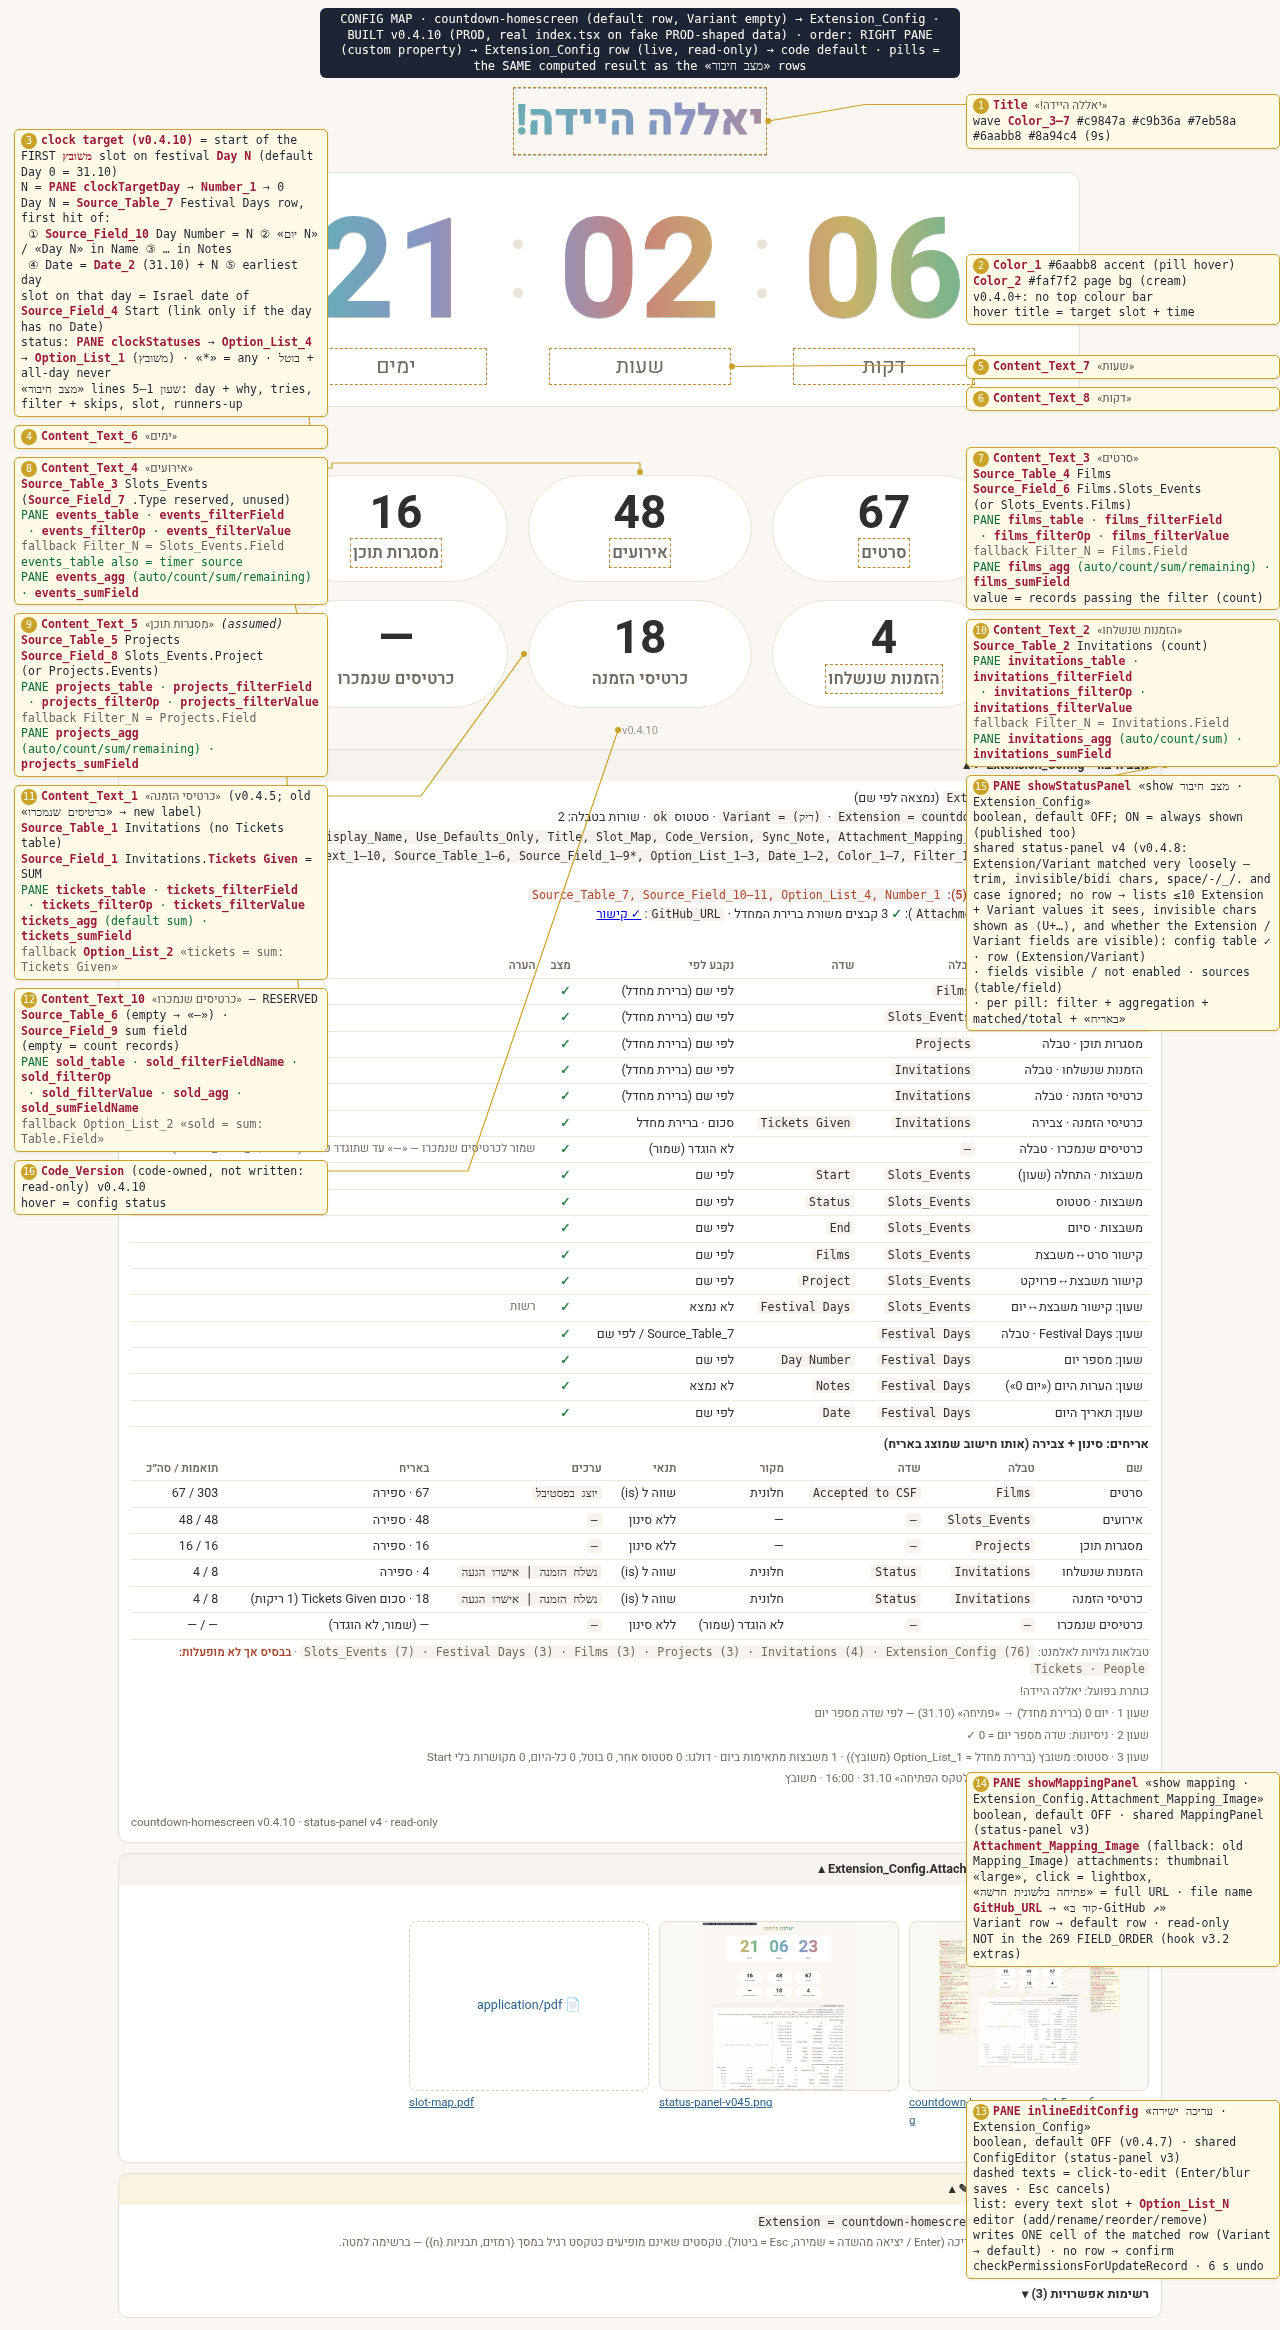
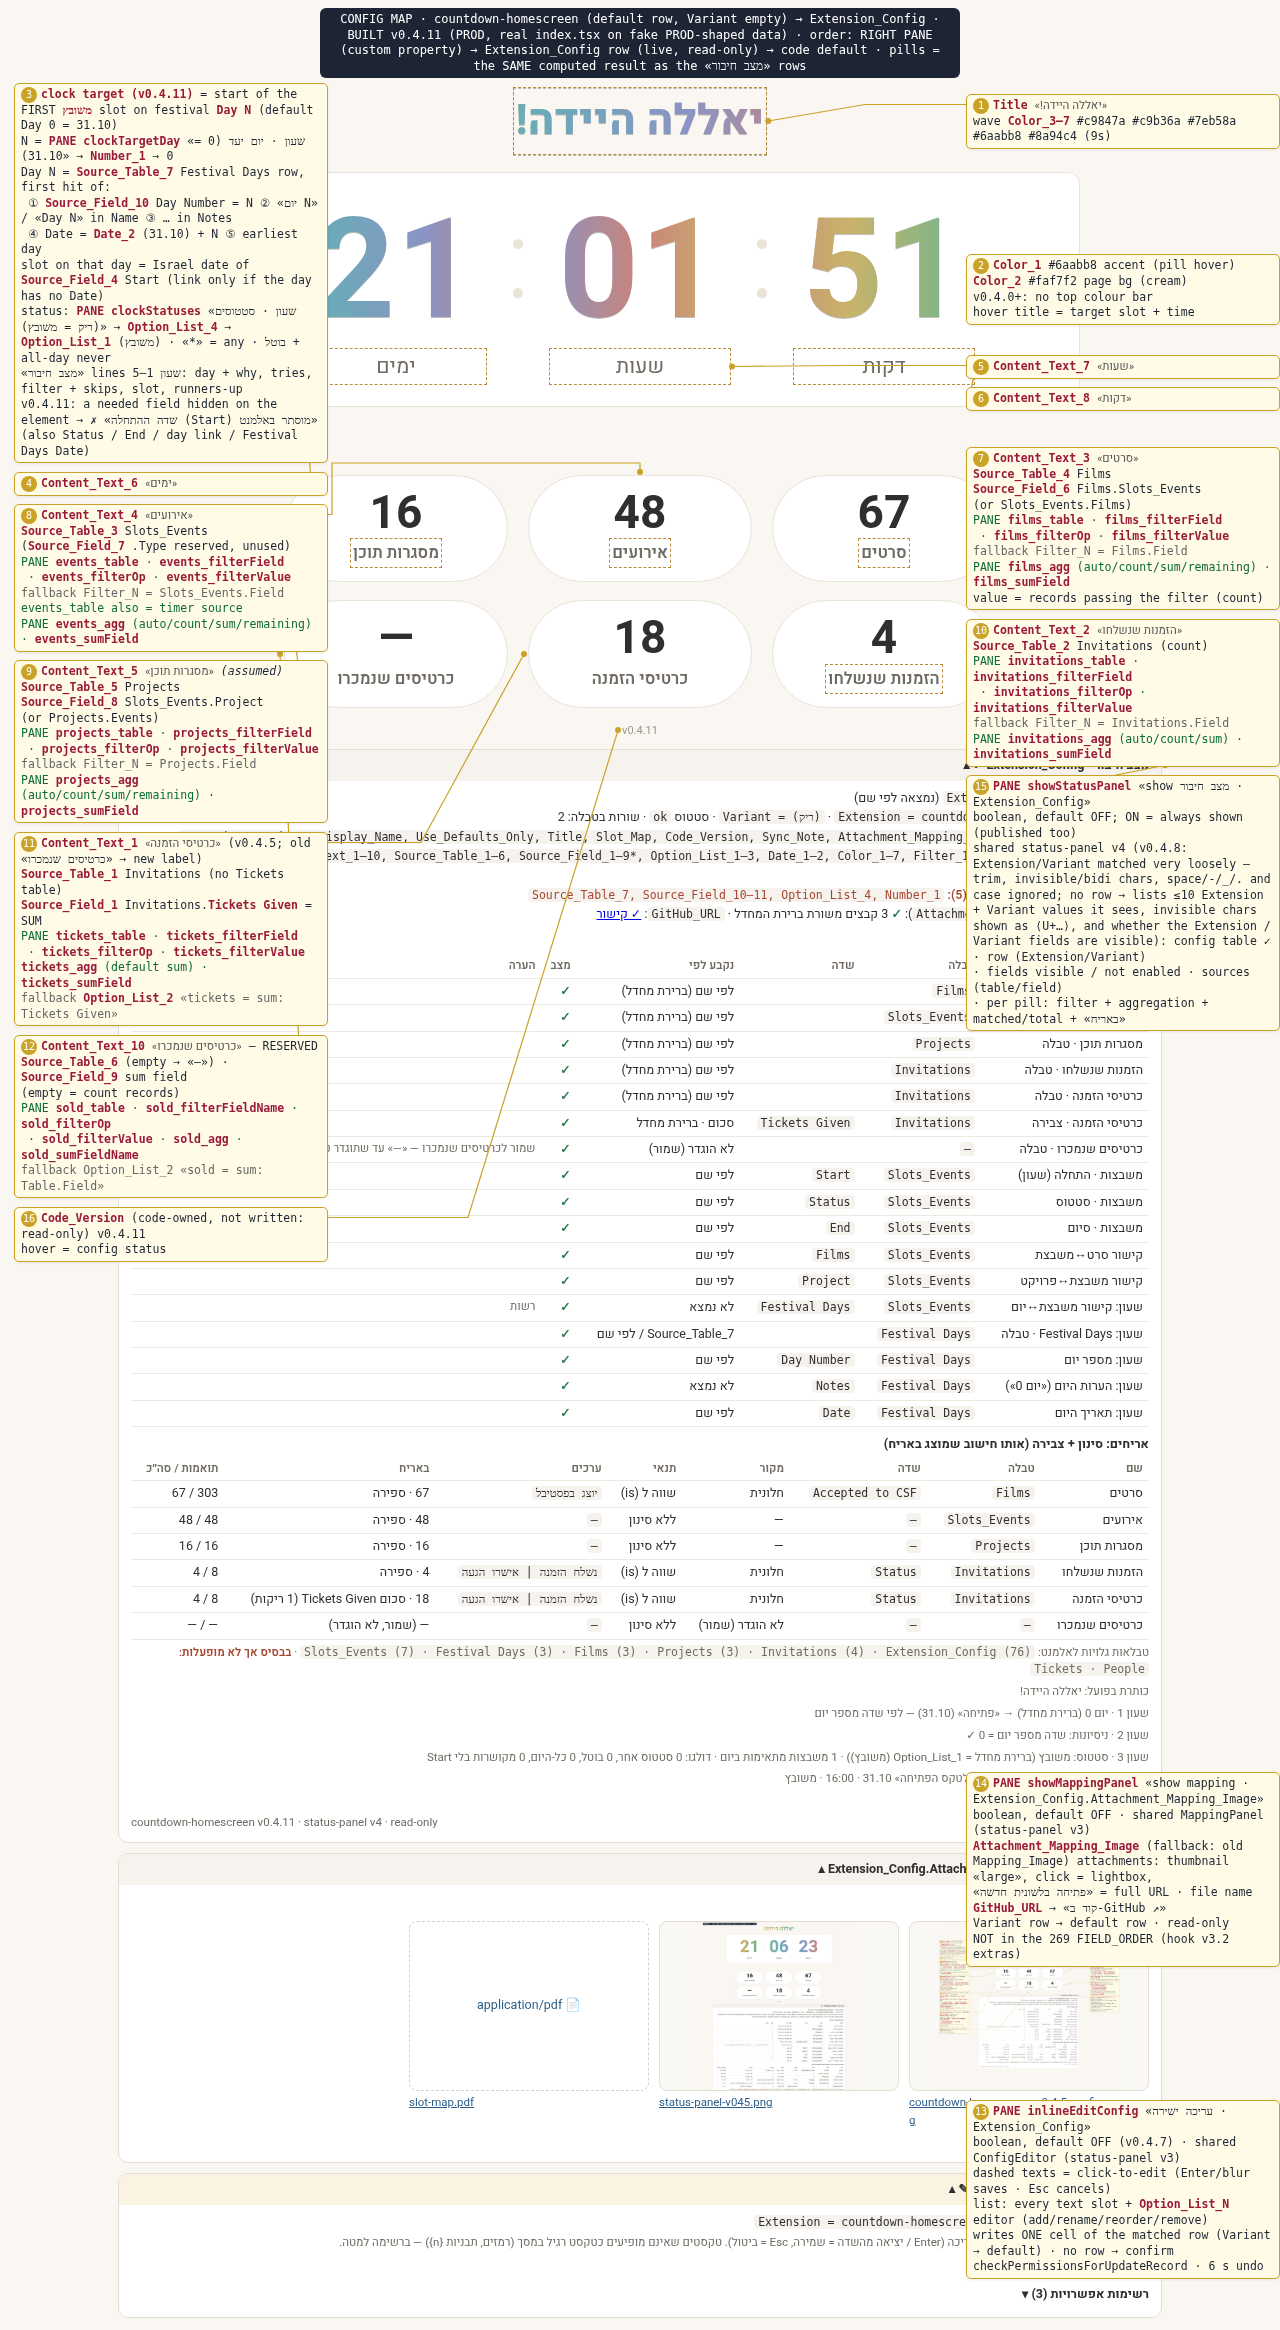
countdown-homescreen v0.4.11: status panel flags a needed field hidden on the element (✗ «שדה ההתחלה (Start) מוסתר באלמנט», also Status / End / day link / Festival Days Date, Notes, day number); short clock labels; refreshed config map

diff --git a/countdown-homescreen/frontend/index.tsx b/countdown-homescreen/frontend/index.tsx
@@ -137,8 +137,8 @@ function getCustomProperties(base: Base) {
             defaultValue: cfgT ?? undefined,
         };
         const clockProps = [
-            {key: TARGET_DAY_KEY, label: 'שעון: מספר יום היעד ב-Festival Days (ריק = Extension_Config Number_1 / 0)', type: 'string' as const, defaultValue: ''},
-            {key: CLOCK_STATUS_KEY, label: 'שעון: סטטוסים למשבצת היעד (| בין ערכים; ריק = Option_List_4 / כל סטטוס)', type: 'string' as const, defaultValue: ''},
+            {key: TARGET_DAY_KEY, label: 'שעון · יום יעד (0 = 31.10)', type: 'string' as const, defaultValue: ''},
+            {key: CLOCK_STATUS_KEY, label: 'שעון · סטטוסים (ריק = משובץ)', type: 'string' as const, defaultValue: ''},
         ];
         return [cfgProp, statusToggleProperty(), mappingToggleProperty(), editToggleProperty(), ...clockProps, ...PILLS.flatMap(p => {
             const keys = propKeys(p.key);
@@ -330,6 +330,22 @@ function schemaFieldName(schema: EditSchema | null, fieldId: string | null): str
     return null;
 }
 const looseKey = (s: string) => norm(s).replace(/[\s_\-.]+/g, '');
+
+/** v0.4.11 (the owner 15:05: PROD clock was wrong because Start was hidden on the element): a field the countdown needs that is
+ *  NOT in table.fields — does the base have it (= hidden on the element)? Needs the edit-mode schema; null = can't tell. */
+export function hiddenFieldName(schema: EditSchema | null, table: Table | null, aliases: readonly string[]): string | null {
+    if (!schema || !table) return null;
+    const t = Object.values(schema).find(x => x.id === table.id);
+    if (!t) return null;
+    const hit = findByLooseName(Object.values(t.fieldsById ?? {}).map(f => ({name: f.name})), aliases);
+    return hit?.name ?? null;
+}
+/** «✗ שדה ההתחלה (Start) מוסתר באלמנט» — one line per missing field the countdown needs. */
+export function missingFieldLine(he: string, want: string, schema: EditSchema | null, hidden: string | null): string {
+    if (hidden) return `✗ ${he} (${hidden}) מוסתר באלמנט — יש להפעיל אותו ברשימת השדות של האלמנט`;
+    if (!schema) return `✗ ${he} (${want}) מוסתר באלמנט או לא קיים — יש להפעיל אותו ברשימת השדות של האלמנט`;
+    return `✗ ${he} (${want}) לא קיים בטבלה`;
+}
 
 /** Extension_Config fields this screen reads (for the «מצב חיבור» missing list). */
 const CONFIG_FIELDS_USED = [
@@ -623,23 +639,42 @@ function CountdownScreen({P, cfgSrc, configError, cfgTable}: {P: {[key: string]:
                             note: agg.mode === 'sum' && !sumField && !reserved ? 'שדה הסכום לא נמצא / לא מופעל לאלמנט' : null,
                         });
                 }
+                const fieldAlerts: string[] = [];
+                const need = (he: string, t: Table | null, fld: Field | null | undefined, want: string, aliases: readonly string[], required: boolean): string | null => {
+                    if (fld || !t) return null;
+                    const hidden = hiddenFieldName(schema, t, [want, ...aliases]);
+                    if (!required && !hidden) return null;
+                    const line = missingFieldLine(he, want, schema, hidden);
+                    fieldAlerts.push(line);
+                    return line;
+                };
+                const startAlert = need('שדה ההתחלה', slotsT, f?.start, fp('Source_Field_4'), FIELD_ALIASES.start, true);
+                const statusAlert = need('שדה הסטטוס', slotsT, f?.status, fp('Source_Field_3'), FIELD_ALIASES.status, true);
+                const endAlert = need('שדה הסיום', slotsT, f?.end, fp('Source_Field_5'), FIELD_ALIASES.end, false);
+                const linkAlert = need('שדה הקישור ליום', slotsT, f?.days, fp('Source_Field_11'), SLOT_DAY_LINK_ALIASES, false);
+                const dateAlert = need('שדה התאריך של Festival Days', daysT, dayDateF, 'Date', DAY_DATE_ALIASES, true);
+                const noteAlert = need('שדה ההערות של Festival Days', daysT, dayNoteF, 'Notes', DAY_NOTE_ALIASES, false);
+                const numAlert = need('שדה מספר היום', daysT, dayNumF, fp('Source_Field_10'), DAY_NUM_ALIASES, false);
+                const alertOf: Record<string, string | null> = {start: startAlert, status: statusAlert, end: endAlert, days: linkAlert};
                 if (slotsT) {
-                    const sf: [string, Field | null | undefined, string, boolean][] = [
-                        ['משבצות · התחלה (שעון)', f?.start, fp('Source_Field_4'), true],
-                        ['משבצות · סטטוס', f?.status, fp('Source_Field_3'), true],
-                        ['משבצות · סיום', f?.end, fp('Source_Field_5'), false],
+                    const sf: [string, Field | null | undefined, string, boolean, string?][] = [
+                        ['משבצות · התחלה (שעון)', f?.start, fp('Source_Field_4'), true, 'start'],
+                        ['משבצות · סטטוס', f?.status, fp('Source_Field_3'), true, 'status'],
+                        ['משבצות · סיום', f?.end, fp('Source_Field_5'), false, 'end'],
                         ['קישור סרט↔משבצת', f?.films ?? filmSlotsF, fp('Source_Field_6'), false],
                         ['קישור משבצת↔פרויקט', f?.project ?? projectSlotsF, fp('Source_Field_8'), false],
-                        ['שעון: קישור משבצת↔יום', f?.days, fp('Source_Field_11'), false],
+                        ['שעון: קישור משבצת↔יום', f?.days, fp('Source_Field_11'), false, 'days'],
                     ];
-                    for (const [label, fld, want, required] of sf)
-                        sources.push({label, table: slotsT.name, field: fld?.name ?? want, via: fld ? 'לפי שם' : 'לא נמצא', ok: !!fld || !required, note: !fld ? (required ? 'חובה לשעון' : 'רשות') : null});
+                    for (const [label, fld, want, required, k] of sf) {
+                        const alert = k ? alertOf[k] : null;
+                        sources.push({label, table: slotsT.name, field: fld?.name ?? want, via: fld ? 'לפי שם' : alert ? 'מוסתר באלמנט ✗' : 'לא נמצא', ok: !!fld || (!required && !alert), note: !fld ? (alert ?? (required ? 'חובה לשעון' : 'רשות')) : null});
+                    }
                 }
                 sources.push({label: 'שעון: Festival Days · טבלה', table: daysT?.name ?? null, via: daysT ? 'Source_Table_7 / לפי שם' : 'לא נמצאה', ok: true, note: daysT ? null : 'בלי הטבלה: היום הראשון = Date_2 (כלל ישן)'});
                 if (daysT) {
-                    sources.push({label: 'שעון: מספר יום', table: daysT.name, field: dayNumF?.name ?? fp('Source_Field_10'), via: dayNumF ? 'לפי שם' : 'לא נמצא → לפי השם («Day 0» / «יום 0»)', ok: true, note: null});
-                    sources.push({label: 'שעון: הערות היום («יום 0»)', table: daysT.name, field: dayNoteF?.name ?? 'Notes', via: dayNoteF ? 'לפי שם' : 'לא נמצא', ok: true, note: null});
-                    sources.push({label: 'שעון: תאריך היום', table: daysT.name, field: dayDateF?.name ?? 'Date', via: dayDateF ? 'לפי שם' : 'לא נמצא', ok: !!dayDateF || !!f?.days, note: !dayDateF && !f?.days ? 'אין תאריך ואין קישור — אי אפשר לשייך משבצות ליום' : null});
+                    sources.push({label: 'שעון: מספר יום', table: daysT.name, field: dayNumF?.name ?? fp('Source_Field_10'), via: dayNumF ? 'לפי שם' : 'לא נמצא → לפי השם («Day 0» / «יום 0»)', ok: !numAlert, note: numAlert});
+                    sources.push({label: 'שעון: הערות היום («יום 0»)', table: daysT.name, field: dayNoteF?.name ?? 'Notes', via: dayNoteF ? 'לפי שם' : 'לא נמצא', ok: !noteAlert, note: noteAlert});
+                    sources.push({label: 'שעון: תאריך היום', table: daysT.name, field: dayDateF?.name ?? 'Date', via: dayDateF ? 'לפי שם' : 'לא נמצא', ok: !!dayDateF || (!!f?.days && !dateAlert), note: dateAlert ?? (!dayDateF && !f?.days ? 'אין תאריך ואין קישור — אי אפשר לשייך משבצות ליום' : null)});
                 }
                 if (aggLines.bad.length)
                     sources.push({label: 'Option_List_2', table: null, via: 'Extension_Config', ok: false, note: `שורות לא תקינות: ${aggLines.bad.join(', ')} (פורמט: tickets = sum: Tickets Given)`});
@@ -658,7 +693,7 @@ function CountdownScreen({P, cfgSrc, configError, cfgTable}: {P: {[key: string]:
                     filtersTitle: 'אריחים: סינון + צבירה (אותו חישוב שמוצג באריח)',
                     extraTitle: 'באריח',
                     error: configError,
-                    notes: [`כותרת בפועל: ${live.title}`],
+                    notes: [...fieldAlerts, `כותרת בפועל: ${live.title}`],
                     version: VERSION,
                 };
                 const source = readSource(slotsT, f, recsByPill.events);

diff --git a/countdown-homescreen/frontend/festivalTarget.ts b/countdown-homescreen/frontend/festivalTarget.ts
@@ -290,7 +290,7 @@ export function computeTarget(source: SlotsSource, nowMs: number, opts: TargetOp
     const fb = (hint: string | null) => fallback(nowMs, hint, fbMs);
     if (source.kind === 'loading') return fb('טוען משבצות…');
     if (source.kind === 'noTable') return fb('לא נמצאה הטבלה Slots_Events (או שלא הופעלה בחלונית הימנית)');
-    if (source.kind === 'noFields') return fb(`חסרים שדות ב־Slots_Events: ${source.missing.join(', ')}`);
+    if (source.kind === 'noFields') return fb(`חסרים שדות ב־Slots_Events: ${source.missing.join(', ')} — מוסתרים באלמנט או לא קיימים (v0.4.11)`);
 
     if (opts.days) return dayTarget(source.slots, nowMs, opts, fb);
     const scheduled = source.slots.filter(s => isScheduledStatus(s.status, opts.statuses) && s.startMs !== null);

diff --git a/README.md b/README.md
@@ -4,7 +4,7 @@ Source code for the Cinema South Festival (CSF) custom Airtable extensions, one 
 
 | Folder | Extension | Version | What it does |
 |---|---|---|---|
-| `countdown-homescreen/` | Countdown homescreen | v0.4.10 | Home-screen countdown to the start of the first משובץ slot on festival Day 0 = 31.10 (found by day number, «יום 0» in the name or notes, or Date_2; configurable day number and status filter; the status panel shows every step) with live record-count pills (per-pill filters + count/sum aggregation), a «מצב חיבור» connection-status panel, a mapping panel and inline config editing. |
+| `countdown-homescreen/` | Countdown homescreen | v0.4.11 | Home-screen countdown to the start of the first משובץ slot on festival Day 0 = 31.10 (found by day number, «יום 0» in the name or notes, or Date_2; configurable day number and status filter; the status panel shows every step and flags a needed field hidden on the element) with live record-count pills (per-pill filters + count/sum aggregation), a «מצב חיבור» connection-status panel, a mapping panel and inline config editing. |
 | `timeline-festival-days/` | Timeline («טיימליין ימים») | v0.2.10 | Multi-table festival timeline: columns per table, drag-create / move / resize with undo, cross-section window + band (time snaps to 5 min) (names only, vertical when crowded), identical per-column header controls (⠿ · filter · ⇤ · ⋯ · ✕).. Config row: `Extension = timeline-festival-days`, empty Variant (old keys `timeline` and `program-by-day` + `timeline` still read as fallbacks). |
 | `lists-ui/` | Lists UI («רשימות») | v0.6.4 | Interface extension for working lists: home, list page, compact and dynamic list views, sharing. |
 | `people-roles/` | People & Roles («אנשים ותפקידים») | v0.3.4 | Phone book plus people/role/assignment editing with duplicate-phone warnings and undo. |
